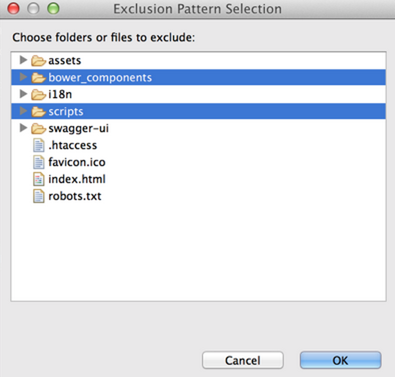
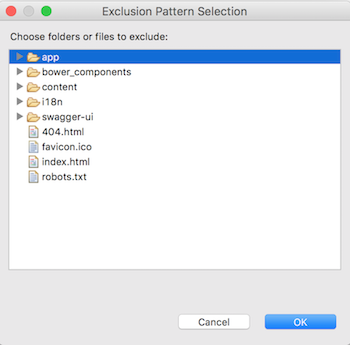
Update Eclipse IDE configuration with Maven, for JHipster 3.0
Fix https://github.com/jhipster/generator-jhipster/issues/4201

Changed region(s): [[0.0, 0.0, 1.0, 0.7826], [0.7429, 0.8986, 0.9714, 0.9855], [0.5143, 0.9275, 0.7143, 0.9855]]

diff --git a/pages/configuring_ide_eclipse.md b/pages/configuring_ide_eclipse.md
@@ -55,16 +55,15 @@ At this stage you should not have any Java error but should still see some JavaS
 ![Exclude]({{ site.url }}/images/configuring_ide_eclipse_4.png)
 
 
-### Exclude 'scripts' and 'bower_components' from src/main/webapp
+### Exclude 'app' from src/main/webapp
 
 - Right click on Project -> Properties -> Javascript -> Include path
 - Click on the “source” tab and select your_project/src/main/webapp
 - Select “Excluded: (None) -> Edit -> Add multiple
-- Select `bower_components` and `scripts` and click “Ok”
-- You should also exclude
-    - `.tmp/`,
-    - `node_modules/` and
-    - `src/main/webapp/dist` (the `dist` folder will be created when you generate a production build)
+- Select  `app` and click “Ok”
+- The following folders should have been automatically excluded (if not, exclude them manually):
+    - `bower_components`
+    - `node_modules/`
 
 ![Right-click]({{ site.url }}/images/configuring_ide_eclipse_5.png)
 
